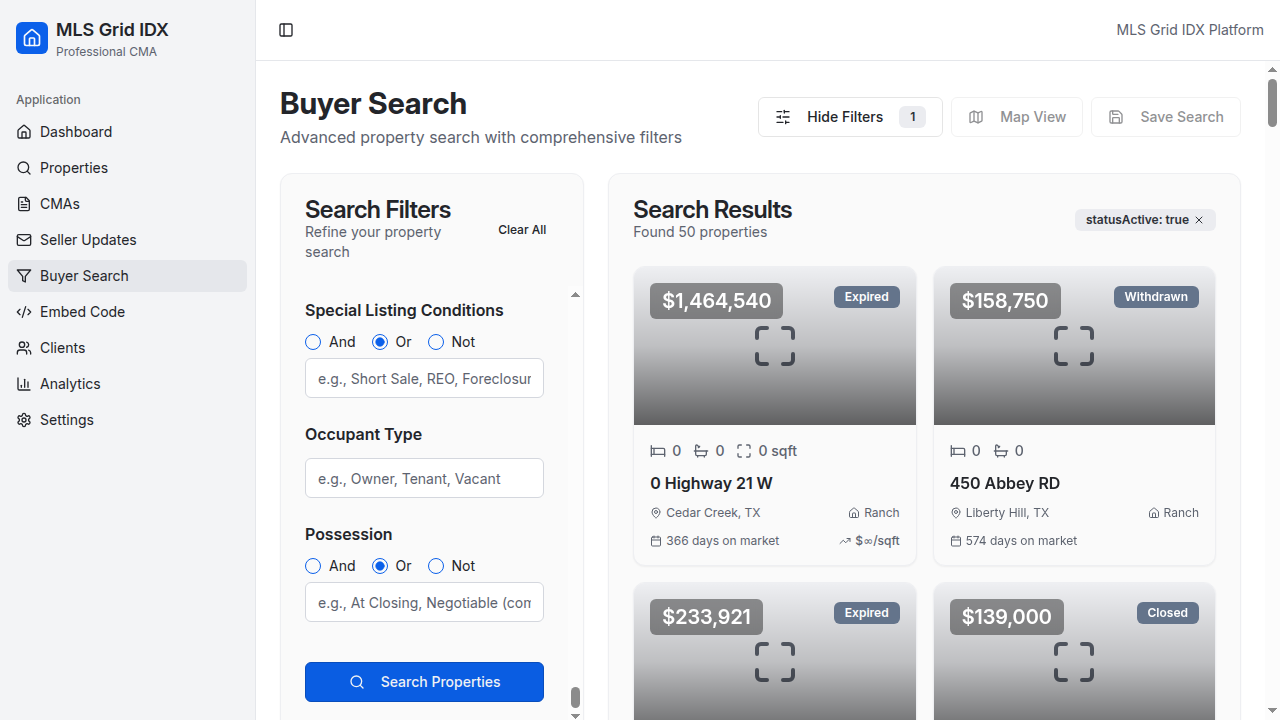
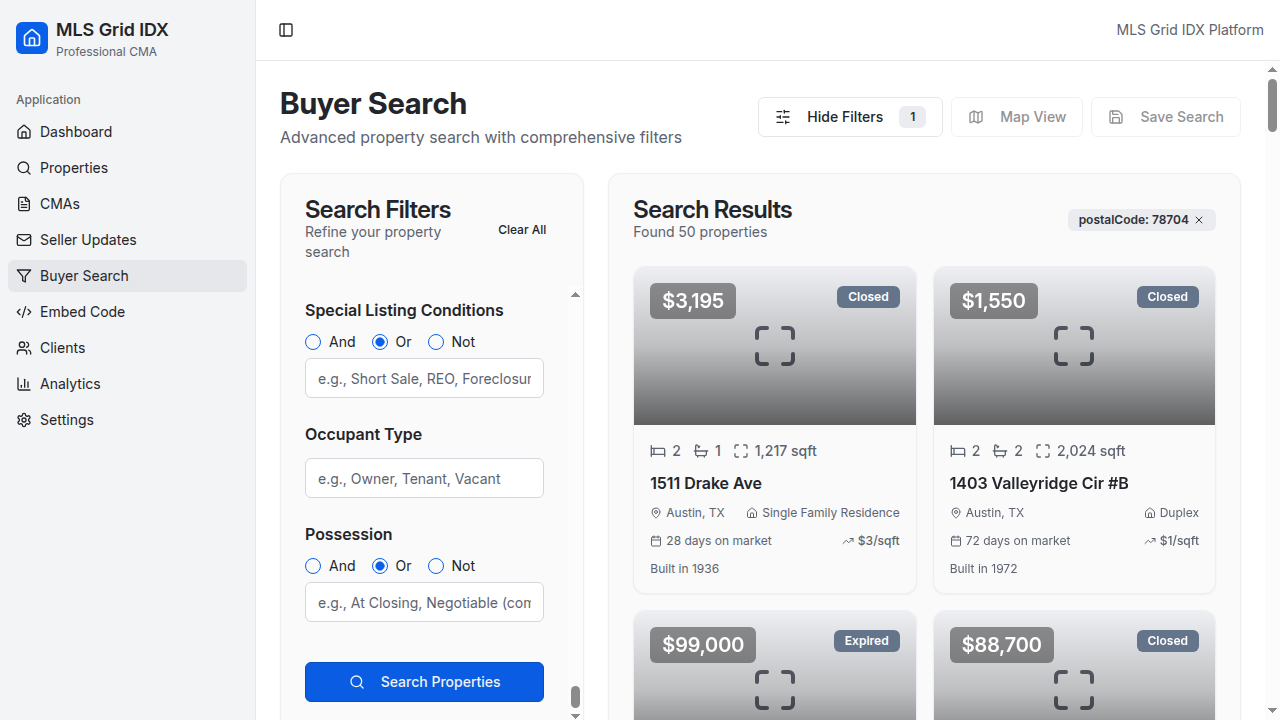
Fix location filters for property searches to ensure accurate results
Refactor query parameter handling in both client and server to correctly transform location-based filters (e.g., postalCode, city) into the expected array format for database queries, resolving issues where searches returned incorrect or no results.

Replit-Commit-Author: Agent
Replit-Commit-Session-Id: e28c01ec-89f3-410b-a90a-0c033c6337a9
Replit-Commit-Checkpoint-Type: full_checkpoint
Replit-Commit-Event-Id: da6bf7fe-1322-4ee9-9e75-652bf457770c
Replit-Commit-Screenshot-Url: https://storage.googleapis.com/screenshot-production-us-central1/f58e6159-1bf8-4479-a256-c997461de361/e28c01ec-89f3-410b-a90a-0c033c6337a9/nTs7aRe

diff --git a/server/routes.ts b/server/routes.ts
@@ -61,29 +61,36 @@ export async function registerRoutes(app: Express): Promise<Server> {
       // Pre-transform array.values/array.mode query params to arrays
       const transformedQuery: any = { ...req.query };
       
-      // Handle subdivision.values → subdivisions (array format from frontend)
-      if (transformedQuery['subdivision.values']) {
-        transformedQuery.subdivisions = Array.isArray(transformedQuery['subdivision.values']) 
-          ? transformedQuery['subdivision.values'] 
-          : [transformedQuery['subdivision.values']];
-        delete transformedQuery['subdivision.values'];
-        delete transformedQuery['subdivision.mode']; // Mode not used yet but remove anyway
-      }
+      // DEBUG: Log the raw query to see what's coming in
+      console.log('🔍 Raw query:', JSON.stringify(req.query, null, 2));
       
-      // Handle subdivision → subdivisions (singular format, just in case)
-      if (transformedQuery['subdivision'] && !transformedQuery.subdivisions) {
-        const subdivisionValue = transformedQuery['subdivision'];
-        transformedQuery.subdivisions = typeof subdivisionValue === 'string'
-          ? subdivisionValue.split(',').map(s => s.trim()).filter(Boolean)
-          : Array.isArray(subdivisionValue) 
-            ? subdivisionValue 
-            : [subdivisionValue];
-        delete transformedQuery['subdivision'];
-        delete transformedQuery['subdivisionMode'];
+      // Transform all .values array parameters to their canonical array names
+      const arrayFieldMappings: Record<string, string> = {
+        'subdivision.values': 'subdivisions',
+        'zipCodes.values': 'zipCodes',
+        'cities.values': 'cities',
+        'countyOrParish.values': 'countyOrParish',
+        'elementarySchools.values': 'elementarySchools',
+        'middleSchools.values': 'middleSchools',
+        'highSchools.values': 'highSchools',
+        'schoolDistrict.values': 'schoolDistrict',
+      };
+      
+      for (const [queryParam, canonicalName] of Object.entries(arrayFieldMappings)) {
+        if (transformedQuery[queryParam]) {
+          transformedQuery[canonicalName] = Array.isArray(transformedQuery[queryParam])
+            ? transformedQuery[queryParam]
+            : [transformedQuery[queryParam]];
+          delete transformedQuery[queryParam];
+          delete transformedQuery[queryParam.replace('.values', '.mode')];
+        }
       }
       
       // Parse and coerce query params to proper types
       const rawCriteria = searchCriteriaSchema.parse(transformedQuery);
+      
+      // DEBUG: Log the parsed criteria
+      console.log('✅ Parsed criteria.zipCodes:', rawCriteria.zipCodes);
       
       // Transform dot-notation fields into nested objects
       const criteria: any = { ...rawCriteria };

diff --git a/client/src/pages/BuyerSearch.tsx b/client/src/pages/BuyerSearch.tsx
@@ -287,6 +287,14 @@ export default function BuyerSearch() {
       view: 'viewYN',
       horse: 'horseYN',
       flexListing: 'flexListingYN',
+      // Location field mappings (singular frontend → plural backend)
+      postalCode: 'zipCodes',
+      city: 'cities',
+      county: 'countyOrParish',
+      elementarySchool: 'elementarySchools',
+      middleSchool: 'middleSchools',
+      highSchool: 'highSchools',
+      schoolDistrict: 'schoolDistrict',
     };
 
     // Array-based fields that need special handling (comma-separated values → arrays)
@@ -299,7 +307,10 @@ export default function BuyerSearch() {
       'parkingFeatures', 'heating', 'cooling', 'waterSource', 'sewer',
       'utilities', 'greenEnergyEfficient', 'greenSustainability',
       'specialListingConditions', 'showingRequirements', 'possession',
-      'acceptableFinancing', 'subdivision'
+      'acceptableFinancing', 'subdivision',
+      // Location & school fields (need array handling)
+      'postalCode', 'city', 'county', 
+      'elementarySchool', 'middleSchool', 'highSchool', 'schoolDistrict'
     ];
     
     // Fields handled manually above (skip in Object.entries loop)
@@ -338,9 +349,12 @@ export default function BuyerSearch() {
             const modeKey = `${key}Mode` as keyof SearchFilters;
             const mode = filters[modeKey] || 'Or';
             
+            // Use mapped name for backend (e.g., postalCode → zipCodes)
+            const mappedKey = fieldMapping[key] || key;
+            
             // Add values array and mode
-            values.forEach(v => params.append(`${key}.values`, v));
-            params.set(`${key}.mode`, String(mode));
+            values.forEach(v => params.append(`${mappedKey}.values`, v));
+            params.set(`${mappedKey}.mode`, String(mode));
           }
           return;
         }
